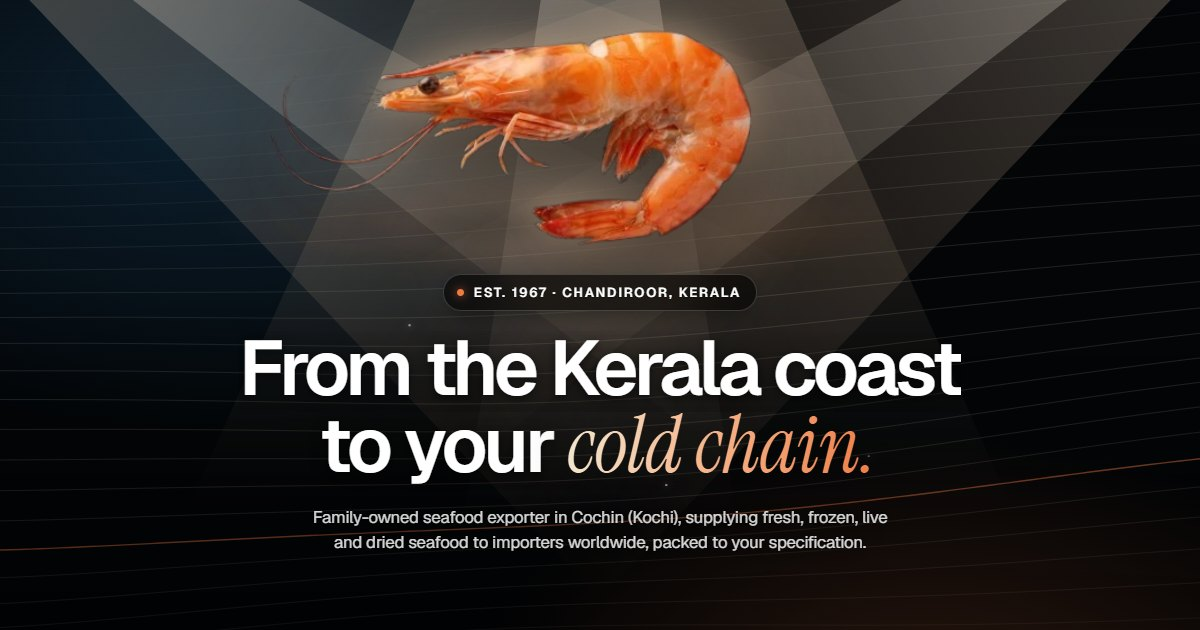
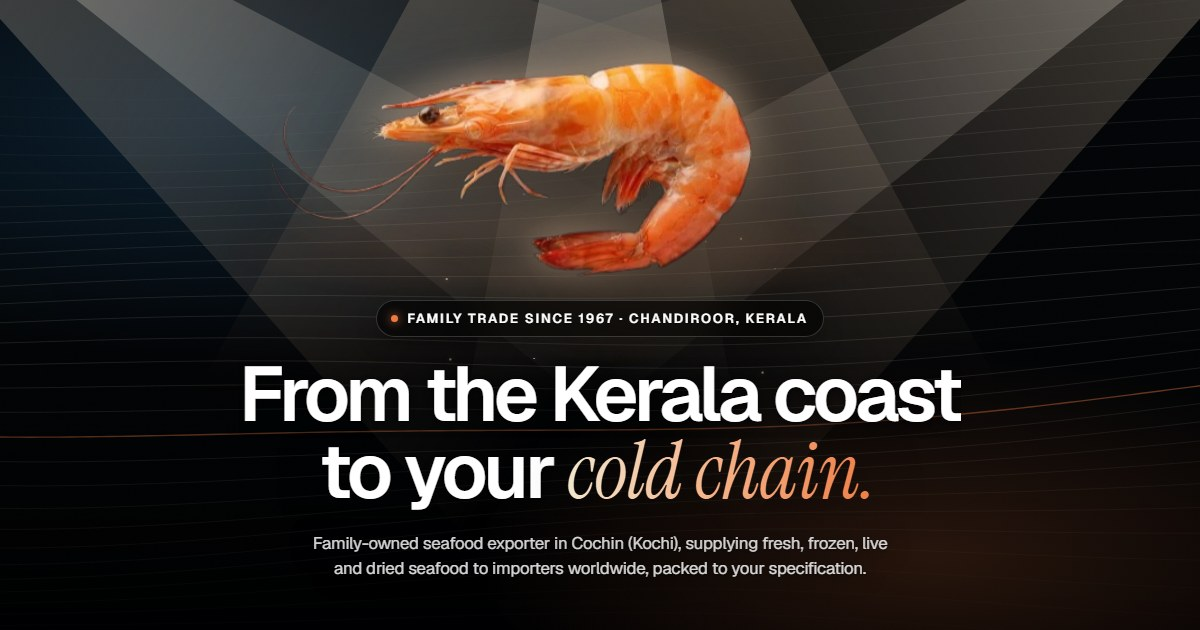
Rename to Zetarah Exports, third generation of the family behind Sithara Exports (est. 1967)

diff --git a/src/components/Sections2.jsx b/src/components/Sections2.jsx
@@ -143,7 +143,7 @@ export function Heritage() {
         <p className="eyebrow">Our heritage</p>
         <MaskLines as="h2" id="heritage-title" className="h-xl" style={{ marginTop: "1.2rem" }}
           lines={["Three generations.", <em className="s" style={{ color: "var(--cream)" }}>One promise.</em>]} />
-        <Reveal as="p" className="lead" style={{ marginTop: "1.4rem" }}>Since 1967, Sithara Exports has been a family business, and every shipment carries that name.</Reveal>
+        <Reveal as="p" className="lead" style={{ marginTop: "1.4rem" }}>Our family has traded seafood from Chandiroor since 1967: first as Sithara Exports, and now as Zetarah Exports, its third generation.</Reveal>
         <div className="stats">
           <Stat i={0} to={1967} from={1900} label="The year Mohammed began exporting shrimp from Chandiroor" />
           <Stat i={1} to={3} label="Generations of one family, one name on every shipment" />
@@ -161,11 +161,11 @@ export function Heritage() {
         <Reveal className="namecard">
           <small>The name</small>
           <div className="big">
-            <motion.span id="sithara-word" aria-label="Sithara" initial="h" whileInView="s" viewport={VIEW} variants={{ s: { transition: { staggerChildren: 0.06 } } }}>
-              {[..."Sithara"].map((c, i) => <motion.span key={i} aria-hidden="true" variants={{ h: { y: "110%" }, s: { y: "0%" } }} transition={{ duration: 1.4, ease: EASE }}>{c}</motion.span>)}
-            </motion.span>{" "}<i>/ aspiring star</i>
+            <motion.span id="sithara-word" aria-label="Zetarah" initial="h" whileInView="s" viewport={VIEW} variants={{ s: { transition: { staggerChildren: 0.06 } } }}>
+              {[..."Zetarah"].map((c, i) => <motion.span key={i} aria-hidden="true" variants={{ h: { y: "110%" }, s: { y: "0%" } }} transition={{ duration: 1.4, ease: EASE }}>{c}</motion.span>)}
+            </motion.span>{" "}<i>/ Exports</i>
           </div>
-          <p>“Sithara” means aspiring star, a name we have carried for three generations.</p>
+          <p>Sithara Exports, founded by our grandfather in 1967, continues today as Zetarah Exports, the family’s third generation.</p>
         </Reveal>
 
       </div>
@@ -197,7 +197,7 @@ export function Note() {
             </motion.span>
           ))}
         </motion.blockquote>
-        <Reveal as="p" className="more" delay={0.3}>My grandfather, Mohammed, started Sithara Exports in 1967. In 1996 he handed it to my father, Shaji, and today it is my turn to carry it forward. Whether you have worked with us for years or are writing to us for the first time, I would be glad to hear from you personally.</Reveal>
+        <Reveal as="p" className="more" delay={0.3}>My grandfather, Mohammed, started Sithara Exports in 1967. In 1996 he handed it to my father, Shaji, and today I carry our family’s trade forward as Zetarah Exports. Whether you have worked with us for years or are writing to us for the first time, I would be glad to hear from you personally.</Reveal>
         <motion.div className="sig" initial="h" whileInView="s" viewport={{ once: true, margin: "0px 0px -6% 0px" }}>
           <span className="sig-photo">
             <motion.img src="img/muzammil-third-generation-of-sithara-exp.webp" alt="" variants={{ h: { scale: 0.8, opacity: 0 }, s: { scale: 1, opacity: 1 } }} transition={{ type: "spring", stiffness: 220, damping: 16, delay: 0.1 }} />
@@ -209,7 +209,7 @@ export function Note() {
           <div>
             <motion.span className="sig-hand" aria-label="Muzammil"
               variants={{ h: { clipPath: "inset(0 100% 0 0)" }, s: { clipPath: "inset(0 0% 0 0)" } }} transition={{ duration: 1.8, ease: [0.65, 0, 0.35, 1], delay: 0.45 }}>Muzammil</motion.span>
-            <motion.span className="sig-role" variants={{ h: { opacity: 0, y: 6 }, s: { opacity: 1, y: 0 } }} transition={{ duration: 0.8, delay: 1.5 }}>Third generation, Sithara Exports</motion.span>
+            <motion.span className="sig-role" variants={{ h: { opacity: 0, y: 6 }, s: { opacity: 1, y: 0 } }} transition={{ duration: 0.8, delay: 1.5 }}>Third generation · Zetarah Exports</motion.span>
           </div>
         </motion.div>
       </div>
@@ -402,7 +402,7 @@ export function Contact({ prefill }) {
     if (Object.keys(er).length) { document.getElementById("q-" + Object.keys(er)[0])?.focus(); setMsg(""); return; }
     const product = FORM_PRODUCTS[Number(f.product)];
     track("inquiry_prepared", product);
-    setMsg(`Inquiry for Sithara Exports\nName: ${f.name}${f.company.trim() ? "\nCompany: " + f.company : ""}\nEmail: ${f.email}\nCountry: ${f.country}\nProduct: ${product}\nVolume: ${f.volume.trim()}\nDestination port: ${f.port.trim()}${f.req.trim() ? "\nRequirement: " + f.req.trim() : ""}`);
+    setMsg(`Inquiry for Zetarah Exports\nName: ${f.name}${f.company.trim() ? "\nCompany: " + f.company : ""}\nEmail: ${f.email}\nCountry: ${f.country}\nProduct: ${product}\nVolume: ${f.volume.trim()}\nDestination port: ${f.port.trim()}${f.req.trim() ? "\nRequirement: " + f.req.trim() : ""}`);
     setSending(true); setSaved(null);
     const r = await submitEnquiry({ name: f.name.trim(), company: f.company.trim(), email: f.email.trim(), country: f.country.trim(), product,
       requirement: [`Volume: ${f.volume.trim()}`, `Destination port: ${f.port.trim()}`, f.req.trim()].filter(Boolean).join("\n"),
@@ -482,12 +482,12 @@ export function Footer() {
       <div className="wrap">
         <div className="horizon" aria-hidden="true"><span className="boat"><ShipIcon /></span></div>
         <div className="foot-top">
-          <div><a className="brand" href="#top"><img src="img/sithara-exports-logo.svg" alt="" />Sithara Exports</a><p>Three generations. One family. One standard.<br />Seafood exporter since 1967.</p></div>
+          <div><a className="brand" href="#top"><img src="img/zetarah-exports-logo.svg" alt="" />Zetarah Exports</a><p>Three generations. One family. One standard.<br />A family seafood trade since 1967, now Zetarah Exports.</p></div>
           <div><b>Company</b><a href="#about">About</a><a href="#heritage">Heritage</a><a href="#process">How we work</a></div>
           <div><b>Seafood</b><a href="#products">Shrimps</a><a href="#products">Cuttlefish &amp; Squid</a><a href="#products">Live Mud Crabs</a></div>
           <div><b>Contact</b><a href={`mailto:${EMAIL}`}>{EMAIL}</a><a href={`tel:+${PHONE}`}>{PHONE_DISPLAY}</a><a href={wa()} target="_blank" rel="noopener">WhatsApp</a><span>Chandiroor · Cochin · Kerala</span></div>
         </div>
-        <div className="foot-base"><span>Copyright © {new Date().getFullYear()} Sithara Exports. All rights reserved.</span><span>Three generations · Since 1967</span></div>
+        <div className="foot-base"><span>Copyright © {new Date().getFullYear()} Zetarah Exports. All rights reserved.</span><span>Three generations · Since 1967</span></div>
       </div>
     </footer>
   );
@@ -509,7 +509,7 @@ export function WaFab({ ready }) {
     return () => { clearTimeout(t1); clearTimeout(t2); clearInterval(iv); };
   }, [ready, animate, scope]);
   return (
-    <motion.a ref={scope} className={`wa-fab${open ? " open" : ""}`} href={wa("Hello Sithara Exports, I'd like to request a quote.")} target="_blank" rel="noopener" aria-label="Contact now on WhatsApp"
+    <motion.a ref={scope} className={`wa-fab${open ? " open" : ""}`} href={wa("Hello Zetarah Exports, I'd like to request a quote.")} target="_blank" rel="noopener" aria-label="Contact now on WhatsApp"
       initial={{ scale: 0, rotate: -35 }} animate={ready ? { scale: 1, rotate: 0 } : undefined}
       transition={{ type: "spring", stiffness: 420, damping: 14, delay: 1.4 }} whileTap={{ scale: 0.9 }} whileHover={{ scale: 1.04 }}>
       <span className="wa-ring" aria-hidden="true" /><span className="wa-ring r2" aria-hidden="true" />

diff --git a/index.html b/index.html
@@ -3,33 +3,33 @@
   <head>
     <meta charset="utf-8" />
     <meta name="viewport" content="width=device-width, initial-scale=1, viewport-fit=cover" />
-    <title>Sithara Exports | Seafood Exporter in Cochin (Kochi), Kerala, India | Since 1967</title>
-    <meta name="description" content="Family-owned seafood exporter in Chandiroor, Cochin (Kochi), Kerala since 1967. Frozen shrimp, cuttlefish, squid, fish and live mud crabs, packed to your specification and shipped to importers worldwide." />
-    <meta name="keywords" content="seafood exporter Kerala, seafood exporter Cochin, frozen shrimp exporter India, cuttlefish exporter, squid exporter, Indian mackerel export, live mud crab exporter, Aroor seafood, Chandiroor, Sithara Exports" />
+    <title>Zetarah Exports | Seafood Exporter in Cochin (Kochi), Kerala, India | Family Trade Since 1967</title>
+    <meta name="description" content="Zetarah Exports is a family seafood exporter in Chandiroor, Cochin (Kochi), Kerala: the third generation of the family behind Sithara Exports (est. 1967). Frozen shrimp, cuttlefish, squid, fish and live mud crabs, packed to your specification and shipped worldwide." />
+    <meta name="keywords" content="seafood exporter Kerala, seafood exporter Cochin, frozen shrimp exporter India, cuttlefish exporter, squid exporter, Indian mackerel export, live mud crab exporter, Aroor seafood, Chandiroor, Zetarah Exports, Sithara Exports" />
     <meta name="robots" content="index, follow, max-image-preview:large" />
-    <meta name="author" content="Sithara Exports" />
+    <meta name="author" content="Zetarah Exports" />
     <meta name="theme-color" content="#030507" />
     <meta name="color-scheme" content="dark only" />
     <!-- Theme: dark unless the visitor picked light (remembered on their device). Runs before paint. -->
     <script>(function(){var t="dark";try{if(localStorage.getItem("sx-theme")==="light")t="light"}catch(e){}document.documentElement.dataset.theme=t;var m=document.querySelector('meta[name="color-scheme"]');if(m)m.content=t+" only"})()</script>
     <link rel="canonical" href="https://sit-virid.vercel.app/" />
-    <link rel="icon" href="./img/sithara-exports-logo.svg" type="image/svg+xml" />
-    <link rel="apple-touch-icon" href="./img/sithara-exports-logo.svg" />
+    <link rel="icon" href="./img/zetarah-exports-logo.svg" type="image/svg+xml" />
+    <link rel="apple-touch-icon" href="./img/zetarah-exports-logo.svg" />
 
     <!-- Link previews (WhatsApp, LinkedIn, Facebook, X) -->
     <meta property="og:type" content="website" />
-    <meta property="og:site_name" content="Sithara Exports" />
+    <meta property="og:site_name" content="Zetarah Exports" />
     <meta property="og:locale" content="en_IN" />
     <meta property="og:url" content="https://sit-virid.vercel.app/" />
-    <meta property="og:title" content="Sithara Exports | Seafood Exporter in Cochin (Kochi), Kerala" />
-    <meta property="og:description" content="Family-owned since 1967. Frozen shrimp, cuttlefish, squid and fish, packed to your specification and shipped to importers worldwide." />
+    <meta property="og:title" content="Zetarah Exports | Seafood Exporter in Cochin (Kochi), Kerala" />
+    <meta property="og:description" content="Third generation of a family seafood trade that began in 1967. Frozen shrimp, cuttlefish, squid and fish, packed to your specification and shipped to importers worldwide." />
     <meta property="og:image" content="https://sit-virid.vercel.app/img/og.jpg" />
     <meta property="og:image:width" content="1200" />
     <meta property="og:image:height" content="630" />
     <meta property="og:image:alt" content="A prawn under warm spotlights above the headline: From the Kerala coast to your cold chain." />
     <meta name="twitter:card" content="summary_large_image" />
-    <meta name="twitter:title" content="Sithara Exports | Seafood Exporter in Cochin (Kochi), Kerala" />
-    <meta name="twitter:description" content="Family-owned since 1967. Seafood packed to your specification and shipped to importers worldwide." />
+    <meta name="twitter:title" content="Zetarah Exports | Seafood Exporter in Cochin (Kochi), Kerala" />
+    <meta name="twitter:description" content="Third generation of a family seafood trade that began in 1967. Seafood packed to your specification and shipped worldwide." />
     <meta name="twitter:image" content="https://sit-virid.vercel.app/img/og.jpg" />
 
     <link rel="preconnect" href="https://fonts.googleapis.com" />

diff --git a/src/components/Preloader.jsx b/src/components/Preloader.jsx
@@ -5,7 +5,7 @@ import { EASE, EASE_IO } from "../motion.jsx";
 const FISH = "M-20 0 C-12 -9 8 -9 14 0 C8 9 -12 9 -20 0 Z M14 0 L25 -8 L23 0 L25 8 Z";
 const wave = (y) => { let d = `M-60 ${y}`; for (let i = 0; i < 46; i++) d += " q13 -6 26 0 t26 0"; return d; };
 
-/* Act 0: the Sithara seal spins in and flies into the brand mark.
+/* Act 0: the Zetarah seal spins in and flies into the brand mark.
    Acts 1–3: fish into the carton → lid and stamp → crane lifts it onto the ship → ship sails.
    Everything runs as one framer-motion sequence; carton / ship / hook move on motion values. */
 export default function Preloader({ onReveal, onDone, quick = false }) {
@@ -81,12 +81,12 @@ export default function Preloader({ onReveal, onDone, quick = false }) {
   }, []);
 
   return (
-    <div className="pl" ref={scope} role="status" aria-label="Loading Sithara Exports">
+    <div className="pl" ref={scope} role="status" aria-label="Loading Zetarah Exports">
       <div className="pl-glow" />
       <button className="pl-skip" type="button" onClick={exit}>Skip</button>
-      <div className="pl-seal" aria-hidden="true"><span className="halo" /><span className="ringline" /><img src="img/sithara-exports-logo.svg" alt="" /></div>
+      <div className="pl-seal" aria-hidden="true"><span className="halo" /><span className="ringline" /><img src="img/zetarah-exports-logo.svg" alt="" /></div>
       <div className="pl-in">
-        <div className="pl-brand" style={{ opacity: 0 }}><img id="pl-brand-img" src="img/sithara-exports-logo.svg" alt="" style={{ opacity: 0 }} /><div><b>Sithara Exports</b><span>Exporting seafood since 1967</span></div></div>
+        <div className="pl-brand" style={{ opacity: 0 }}><img id="pl-brand-img" src="img/zetarah-exports-logo.svg" alt="" style={{ opacity: 0 }} /><div><b>Zetarah Exports</b><span>Exporting seafood since 1967</span></div></div>
         <svg className="scene" viewBox="0 0 800 330" aria-hidden="true" style={{ opacity: 0 }}>
           <path id="pl-star" opacity="0" d="M700 30 C701.6 41 704 43.4 715 45 C704 46.6 701.6 49 700 60 C698.4 49 696 46.6 685 45 C696 43.4 698.4 41 700 30Z" fill="#F2E8D0" />
           <path className="stroke draw" d="M420 290 V96" />
@@ -107,7 +107,7 @@ export default function Preloader({ onReveal, onDone, quick = false }) {
               <path className="faint" d="M482 236 V261 M494 236 V261 M506 236 V261 M518 236 V261 M544 236 V261 M556 236 V261 M568 236 V261 M580 236 V261" />
             </g>
             <rect x="714" y="188" width="12" height="18" rx="1" fill="none" stroke="#EE7A42" strokeWidth="1.5" />
-            <text x="610" y="288" textAnchor="middle" fontFamily="Geist, sans-serif" fontSize="9" letterSpacing="3" fill="rgba(245,245,247,0.55)">SITHARA · COCHIN</text>
+            <text x="610" y="288" textAnchor="middle" fontFamily="Geist, sans-serif" fontSize="9" letterSpacing="3" fill="rgba(245,245,247,0.55)">ZETARAH · COCHIN</text>
           </g>
           <g className="wv"><path className="stroke faint" d={wave(306)} /></g>
           <g className="wv b"><path className="stroke faint" d={wave(320)} /></g>
@@ -124,7 +124,7 @@ export default function Preloader({ onReveal, onDone, quick = false }) {
             <rect x="0" y="0" width="120" height="70" rx="3" fill="#050607" stroke="#F5F5F7" strokeWidth="1.5" />
             <g id="pl-stamp" opacity="0">
               <rect x="22" y="19" width="76" height="32" rx="2" fill="none" stroke="#EE7A42" strokeWidth="1" />
-              <text x="60" y="33" textAnchor="middle" fontFamily="Geist, sans-serif" fontWeight="600" fontSize="8" letterSpacing="1.8" fill="#EE7A42">SITHARA</text>
+              <text x="60" y="33" textAnchor="middle" fontFamily="Geist, sans-serif" fontWeight="600" fontSize="8" letterSpacing="1.8" fill="#EE7A42">ZETARAH</text>
               <text x="60" y="44" textAnchor="middle" fontFamily="Geist, sans-serif" fontSize="5.6" letterSpacing="1.2" fill="#F2E8D0">EXPORT · COCHIN</text>
             </g>
             <rect id="pl-lid" opacity="0" x="-4" y="-11" width="128" height="11" rx="2" fill="#050607" stroke="#F5F5F7" strokeWidth="1.5" />

diff --git a/src/data.js b/src/data.js
@@ -63,7 +63,7 @@ export const GENERATIONS = [
     p: "Our grandfather, Mohammed, worked in real estate before he founded Sithara Exports and began exporting shrimp. When the business did well, he built a seafood processing plant with freezing and cold storage facilities near the family home, and processed seafood there himself." },
   { img: "img/shaji-second-generation-of-sithara-expor.webp", alt: "Shaji, second generation of Sithara Exports", years: ["1996 ", "onwards", ""], who: "Shaji · Second generation", h: "The next chapter", rev: true,
     p: "Our father, Shaji, took the business forward as a sourcing agent, matching buyers with reliable processors, shippers and packers. He also explored beyond seafood, as Sithara reached buyers across the Middle East, Asia and parts of Europe." },
-  { img: "img/muzammil-third-generation-of-sithara-exp.webp", alt: "Muzammil, third generation of Sithara Exports", years: ["", "Today", ""], who: "Muzammil · Third generation", h: "Carrying the legacy ahead",
+  { img: "img/muzammil-third-generation-of-sithara-exp.webp", alt: "Muzammil, third generation of the family, Zetarah Exports", years: ["", "Today", ""], who: "Muzammil · Third generation · Zetarah Exports", h: "Carrying the legacy ahead",
     p: "Muzammil, the third generation, steps forward with a modern approach and the same values: discipline, customer focus and being easy to work with." },
 ];
 
@@ -74,14 +74,14 @@ export const STEPS = [
   ["Shipment", "Dispatched from Cochin to importers around the world."],
 ];
 
-// Gallery photos come from the Sithara dashboard ("Gallery photos" → Publish to website).
+// Gallery photos come from the dashboard ("Gallery photos" → Publish to website).
 export const GALLERY = [];
 
 export const FAQ = [
-  ["Where is Sithara Exports based?", "We are based in Chandiroor, near Aroor, the seafood hub of Cochin (Kochi), Kerala, India, where the family has been in the seafood trade since 1967."],
+  ["Where is Zetarah Exports based?", "We are based in Chandiroor, near Aroor, the seafood hub of Cochin (Kochi), Kerala, India, where the family has been in the seafood trade since 1967."],
   ["Which products do you export?", "Fresh, frozen, live and dried seafood, including shrimp, cuttlefish, squid, mackerel, ribbon fish, mahi-mahi, sardine and live mud crabs. We source more than 20 seafood varieties, and we also supply meat, coconut, spices and vegetables."],
   ["Do you process the seafood yourselves?", "Our founder, Mohammed, processed seafood at his own plant in Chandiroor. Since 1996 we have worked as a sourcing agent: we match your order with reliable processors, shippers and packers around Aroor and see it packed to your specification."],
   ["Which countries do you ship to?", "We ship to buyers in every part of the world, most often in the Middle East, Asia and Europe."],
   ["How do I request a quote?", "Send us the product, grade, quantity and destination through the form on this page or on WhatsApp, and we will reply with details and availability."],
-  ["How long have you been in business?", "Since 1967. Sithara Exports is now in its third generation of family ownership."],
+  ["How long have you been in business?", "Our family has been in the seafood trade since 1967, when our grandfather, Mohammed, founded Sithara Exports. Zetarah Exports is the third generation of that family business."],
 ];

diff --git a/src/components/Nav.jsx b/src/components/Nav.jsx
@@ -54,7 +54,7 @@ function PhoneMenu() {
           <motion.div className="pmenu" role="dialog" aria-modal="true" aria-label="Menu" data-lenis-prevent
             initial={{ opacity: 0 }} animate={{ opacity: 1 }} exit={{ opacity: 0 }} transition={{ duration: 0.25 }}>
             <div className="pmenu-top">
-              <span className="brand"><img src="img/sithara-exports-logo.svg" alt="" />Sithara Exports</span>
+              <span className="brand"><img src="img/zetarah-exports-logo.svg" alt="" />Zetarah Exports</span>
               <button type="button" className="menu-btn" aria-label="Close menu" onClick={() => setOpen(false)} autoFocus>
                 <svg viewBox="0 0 24 24" width="20" height="20" fill="none" stroke="currentColor" strokeWidth="1.8" strokeLinecap="round" aria-hidden="true"><path d="M6 6l12 12M18 6L6 18" /></svg>
               </button>
@@ -106,7 +106,7 @@ export default function Nav({ ready }) {
     <motion.header className={`lnav${state.scrolled ? " scrolled" : ""}${state.dark ? " on-dark" : ""}`}
       initial={{ y: -24, opacity: 0 }} animate={ready ? { y: 0, opacity: 1 } : undefined} transition={{ duration: 1.2, ease: EASE, delay: 0.5 }}>
       <div className="wrap">
-        <a className="brand" href="#top"><img src="img/sithara-exports-logo.svg" alt="" />Sithara Exports</a>
+        <a className="brand" href="#top"><img src="img/zetarah-exports-logo.svg" alt="" />Zetarah Exports</a>
         <nav aria-label="Sections">
           <a href="#about">About</a>
           <a href="#products">Products</a>

diff --git a/src/site.jsx b/src/site.jsx
@@ -1,4 +1,4 @@
-// Photos published from the Sithara dashboard ("Photos & website" → Publish).
+// Photos published from the dashboard ("Photos & website" → Publish).
 // Online dashboard: read from Supabase public storage. Offline package: public/media/.
 // Product and gallery photos live only in the dashboard.
 import { createContext, useContext, useEffect, useMemo, useState } from "react";
@@ -38,7 +38,7 @@ export function merge(manifest) {
     products.push({ n: m.name, img: m.image, alt: m.alt || m.name, tag: m.tag || "Frozen", desc: m.desc || "Packed to order.", form: m.form || m.tag || "Frozen", grade: m.grade || "By size, to your requirement", opt: formOption(m.name) });
   }
   // Layout classes g1–g6 repeat, so any number of photos keeps the mosaic shape
-  const gallery = (manifest.gallery || []).map((g, i) => [`g${(i % 6) + 1} gi-${i}`, g.image, g.alt || g.caption || "Sithara Exports seafood", g.caption || g.alt || ""]);
+  const gallery = (manifest.gallery || []).map((g, i) => [`g${(i % 6) + 1} gi-${i}`, g.image, g.alt || g.caption || "Zetarah Exports seafood", g.caption || g.alt || ""]);
   return { products, gallery };
 }
 

diff --git a/src/components/Sections1.jsx b/src/components/Sections1.jsx
@@ -193,7 +193,7 @@ export function ProductSheet({ index, onClose, onNav, onQuote }) {
             </dl>,
             <div className="sheet-actions" key="a">
               <motion.button className="btn btn-accent" type="button" onClick={() => onQuote(p)} whileTap={{ scale: 0.96 }}>Request a quote</motion.button>
-              <motion.a className="btn sheet-wa" href={wa(`Hello Sithara Exports, I'd like a quote for ${p.n}.`)} target="_blank" rel="noopener" whileTap={{ scale: 0.96 }}>Ask on WhatsApp</motion.a>
+              <motion.a className="btn sheet-wa" href={wa(`Hello Zetarah Exports, I'd like a quote for ${p.n}.`)} target="_blank" rel="noopener" whileTap={{ scale: 0.96 }}>Ask on WhatsApp</motion.a>
             </div>,
           ].map((el) => (
             <motion.div key={el.key} variants={{ h: { opacity: 0, y: 10 }, s: { opacity: 1, y: 0 } }} transition={{ duration: 0.4, ease: EASE }}>{el}</motion.div>

diff --git a/src/components/Hero.jsx b/src/components/Hero.jsx
@@ -109,7 +109,7 @@ export default function Hero({ ready }) {
                 transition={{ duration: 1.8, ease: "easeOut", delay: 0.45 }} />
             </div>
           </motion.div>
-          <motion.p className="eyebrow" {...fade(0)}>Est. 1967 · Chandiroor, Kerala</motion.p>
+          <motion.p className="eyebrow" {...fade(0)}>Family trade since 1967 · Chandiroor, Kerala</motion.p>
           <MaskLines as="h1" id="hero-title" play={on} delay={0.25}
             lines={["From the Kerala coast", <>to your <em className="s">cold chain.</em></>]} />
           <motion.p className="hero-sub" {...fade(1)}>Family-owned seafood exporter in Cochin (Kochi), supplying fresh, frozen, live and dried seafood to importers worldwide, packed to your specification.</motion.p>

diff --git a/src/analytics.js b/src/analytics.js
@@ -26,7 +26,7 @@ export function initAnalytics() {
   }
 }
 
-// Sithara dashboard stats ("Website stats"): private, no cookies, no IP addresses.
+// Dashboard stats ("Website stats"): private, no cookies, no IP addresses.
 // A random id per browser tab visit links one visit's events together; the country is estimated
 // from the device time zone by the "track" function.
 const STATS_URL = "https://ocdfjuvesnkimqiexqyw.supabase.co/functions/v1/track";
